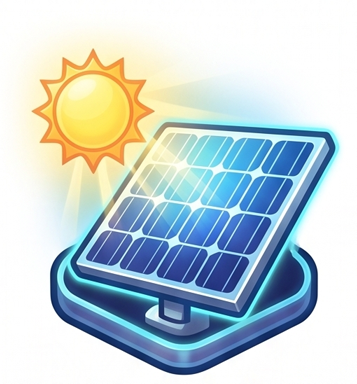
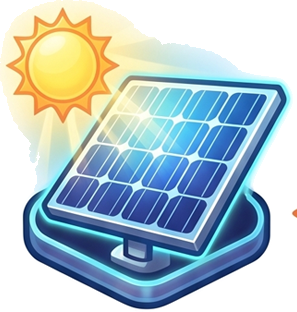
33: C 아이콘 실루엣 아웃라인 재추출

diff --git a/33_game_pinball/index.html b/33_game_pinball/index.html
@@ -300,19 +300,20 @@ const SCORE_FIRST = 300, SCORE_REPEAT = 50, SCORE_CLEAR = 3000;
 const SPEED_BASE = 8.5, SPEED_MAX = 14.5;
 
 /* ------------------ 에너지원 정의 (11종) ------------------ */
-// 위치·크기는 C-.psd 목업(3840×2160 = 스테이지 2배)에서 검출해 필드 좌표(880×940)로 변환
+// 아이콘·위치·크기 모두 C-.psd 'Layer 12 copy'(실루엣 아웃라인 그대로)에서 추출.
+// 목업(3840×2160)=스테이지 2배 → field=(mockup-566,-140)/2
 const ENERGY = [
-  { id:'sun',    name:'태양열',        chip:'#ffe3b3', x:267, y:195, r:77 },
-  { id:'pv',     name:'태양광발전',    chip:'#cfe6ff', x:125, y:123, r:76 },
-  { id:'wind',   name:'풍력',          chip:'#dff1ff', x:533, y:168, r:82 },
-  { id:'h2',     name:'수소에너지',    chip:'#e6e0ff', x:387, y:336, r:77 },
-  { id:'bio',    name:'바이오매스',    chip:'#e2f3d1', x:725, y:308, r:71 },
-  { id:'fuel',   name:'연료전지',      chip:'#d9f2e6', x:351, y:551, r:77 },
-  { id:'coal',   name:'석탄액화가스화', chip:'#e8e3de', x:134, y:373, r:77 },
-  { id:'ocean',  name:'해양에너지',    chip:'#cce9f6', x:174, y:653, r:76 },
-  { id:'hydro',  name:'소수력',        chip:'#d4ecf9', x:722, y:138, r:67 },
-  { id:'geo',    name:'지열',          chip:'#ffdfd1', x:729, y:588, r:73 },
-  { id:'waste',  name:'폐기물에너지',  chip:'#e5f0d4', x:590, y:428, r:75 },
+  { id:'sun',    name:'태양열',        chip:'#ffe3b3', x:267, y:196, r:80 },
+  { id:'pv',     name:'태양광발전',    chip:'#cfe6ff', x:126, y:124, r:80 },
+  { id:'wind',   name:'풍력',          chip:'#dff1ff', x:533, y:168, r:85 },
+  { id:'h2',     name:'수소에너지',    chip:'#e6e0ff', x:388, y:336, r:81 },
+  { id:'bio',    name:'바이오매스',    chip:'#e2f3d1', x:725, y:307, r:73 },
+  { id:'fuel',   name:'연료전지',      chip:'#d9f2e6', x:352, y:551, r:79 },
+  { id:'coal',   name:'석탄액화가스화', chip:'#e8e3de', x:134, y:373, r:81 },
+  { id:'ocean',  name:'해양에너지',    chip:'#cce9f6', x:174, y:653, r:77 },
+  { id:'hydro',  name:'소수력',        chip:'#d4ecf9', x:722, y:138, r:70 },
+  { id:'geo',    name:'지열',          chip:'#ffdfd1', x:728, y:581, r:82 },
+  { id:'waste',  name:'폐기물에너지',  chip:'#e5f0d4', x:590, y:429, r:77 },
 ];
 
 /* =====================================================================
